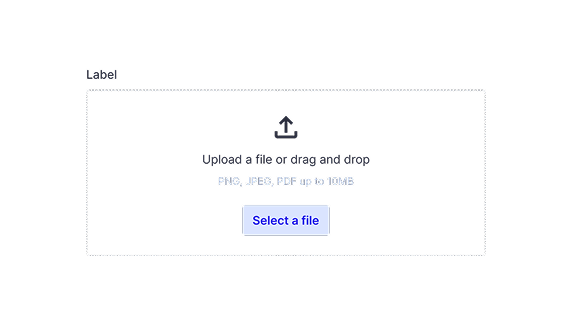
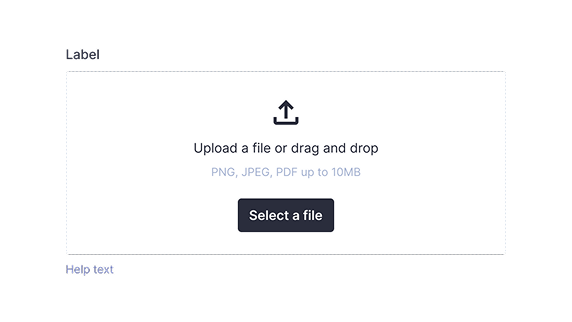
feat(docs): update thumbnails

diff --git a/docs/data/portfolio/components.ts b/docs/data/portfolio/components.ts
@@ -73,7 +73,7 @@ export const componentList: ComponentPortfolioItem[] = [
     {
         title: 'Dropzone',
         to: `/${AppSlug.DOCS}/${AppSlug.COMPONENTS}/dropzone`,
-        imgUrl: `/images/thumbnails/components/file-upload-field.png`,
+        imgUrl: `/images/thumbnails/components/dropzone.png`,
     },
     {
         title: 'Empty state',